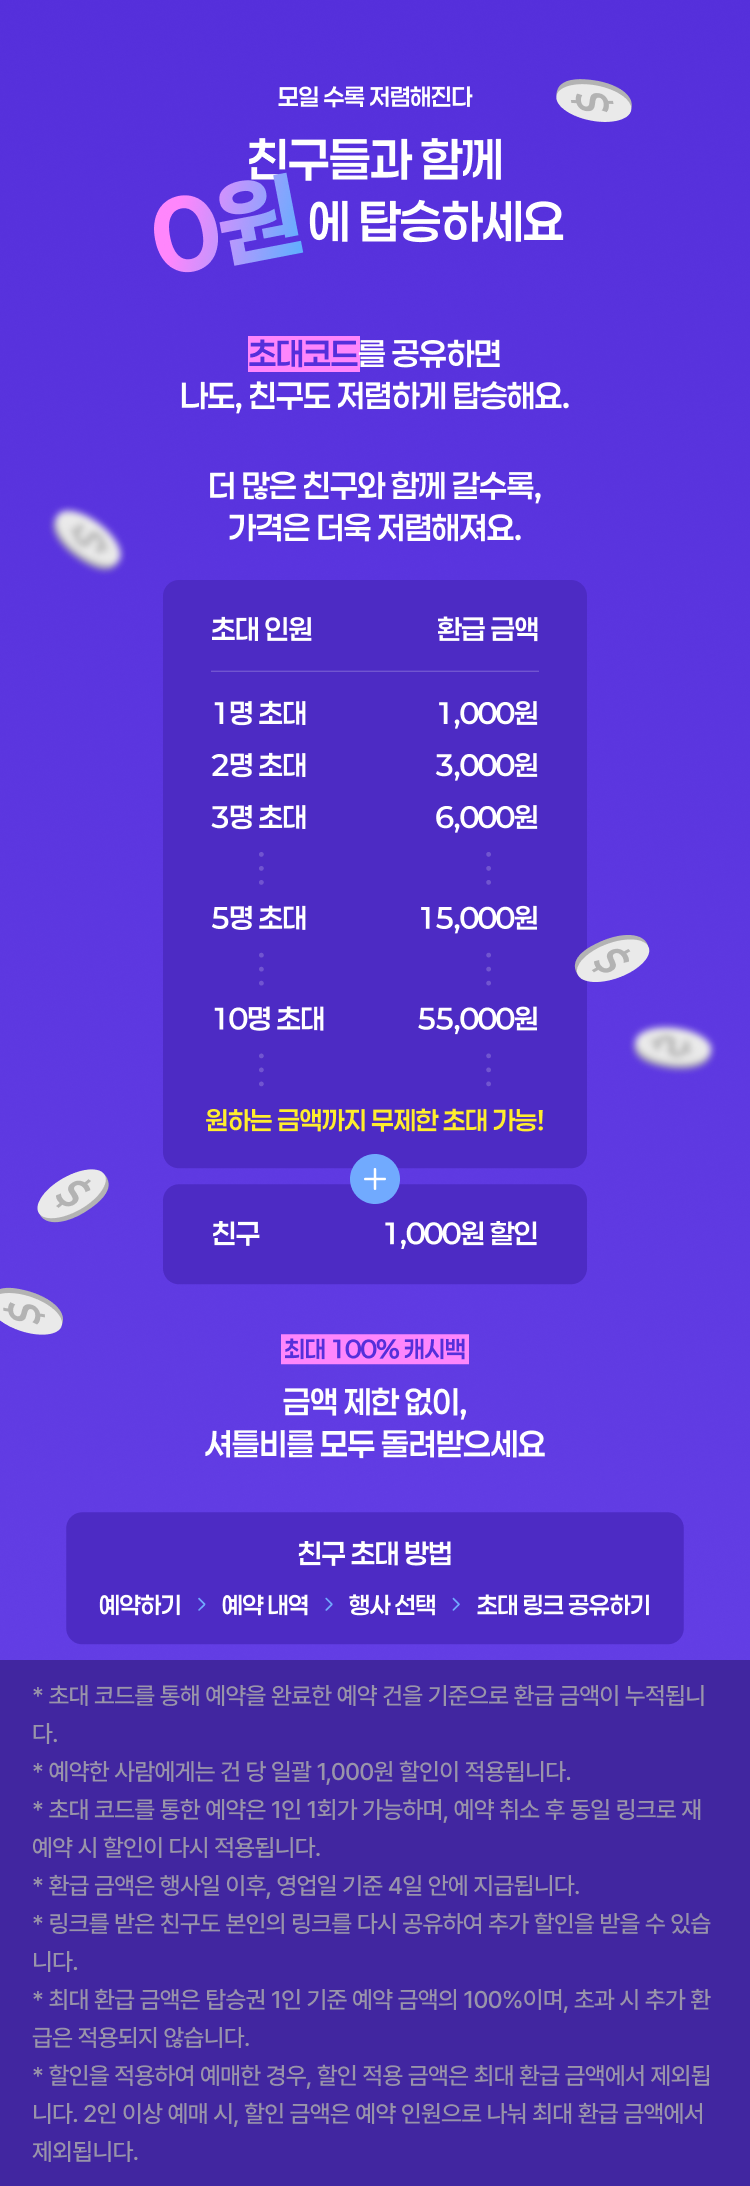
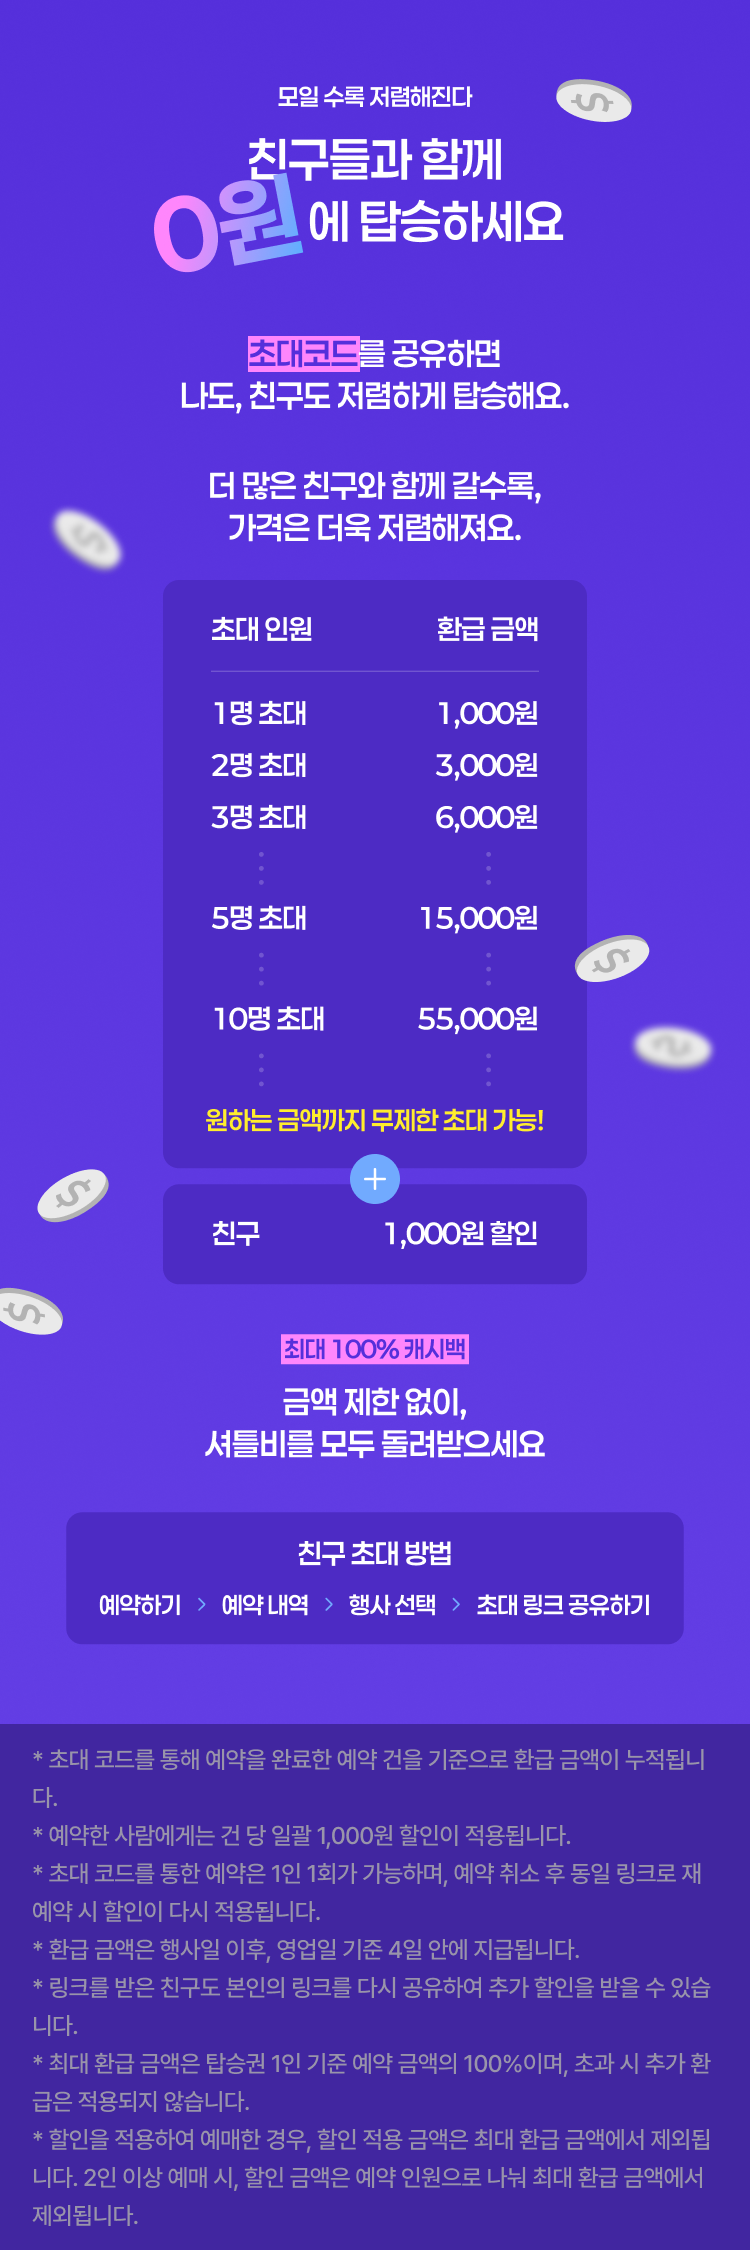
fix: ui 오류, 용어 변경, 약관 변경, 링크복사시 앱으로 열기, 중복 레퍼럴 링크 에러 처리 등

diff --git a/src/app/history/reservation/[reservationId]/components/sections/invite-payback-event-section/InvitePaybackEventSection.tsx b/src/app/history/reservation/[reservationId]/components/sections/invite-payback-event-section/InvitePaybackEventSection.tsx
@@ -57,9 +57,9 @@ const InvitePaybackEventSection = ({
       return;
     }
     const referralCode = referral.referralCode;
-    const referralLink = `${window.location.origin}/event/${eventId}?${PAYMENT_PARAMS_KEYS.referralCode}=${referralCode}`;
+    const referralLink = `${window.location.origin}/open?path=/event/${eventId}?${PAYMENT_PARAMS_KEYS.referralCode}=${referralCode}`;
     navigator.clipboard.writeText(referralLink);
-    toast.success('초대코드가 복사되었습니다.');
+    toast.success('초대 링크가 복사되었습니다.');
   };
 
   return (
@@ -82,22 +82,29 @@ const InvitePaybackEventSection = ({
           nextInviteScalingDiscount={nextInviteScalingDiscount}
           acceptedCount={inviteCount}
         />
-        <Button onClick={handleShareReferralCode}>초대코드 공유하기</Button>
+        <Button onClick={handleShareReferralCode}>초대 링크 공유하기</Button>
         <p className="text-12 font-500 leading-[160%] text-basic-grey-500">
-          * 초대 코드를 통해 예약을 완료한 예약 건을 기준으로 환급 금액이
-          누적됩니다. <br />
-          * 예약한 사람에게는 건 당 일괄 1,000원 할인이 적용됩니다. <br />
-          * 초대 코드를 통한 예약은 1인 1회가 가능하며, 예약 취소 후 동일 링크로
-          재예약 시 할인이 다시 적용됩니다. <br />
-          * 환급 금액은 행사일 이후, 영업일 기준 4일 안에 지급됩니다. <br />
+          * 초대 링크를 통해 예약을 완료한 예약 건을 기준으로 환급 금액이
+          누적됩니다.
+          <br />
+          * 예약한 사람에게는 건 당 일괄 1,000원 할인이 적용됩니다.
+          <br />
+          * 초대 링크를 통한 예약은 1인 1회만 가능하며, 예약 취소 후 동일 링크로
+          재예약 시에도 할인이 적용됩니다.
+          <br />
+          * 환급 금액은 행사일 이후, 영업일 기준 4일 이내에 지급됩니다.
+          <br />
           * 링크를 받은 친구도 본인의 링크를 다시 공유하여 추가 할인을 받을 수
-          있습니다. <br />
-          * 초대 링크를 통한 결제 시, 친구 전용 링크 안내를 확인해 주세요. 전용
-          링크 표시가 없는 경우, 할인이 적용되지 않습니다. <br />
+          있습니다.
+          <br />
+          * 초대 링크를 통한 결제 시, 친구 전용 링크 안내가 표시되는지 확인해
+          주세요. 표시가 없는 경우 할인이 적용되지 않습니다.
+          <br />
           * 최대 환급 금액은 탑승권 1인 기준 예약 금액의 100%이며, 초과 시 추가
-          환급은 적용되지 않습니다. <br />* 할인을 적용하여 예매한 경우, 할인
-          적용 금액은 최대 환급 금액에서 제외됩니다. 2인 이상 예매 시, 할인
-          금액은 예약 인원으로 나눠 최대 환급 금액에서 제외됩니다.
+          환급은 적용되지 않습니다.
+          <br />* 할인(쿠폰, 얼리버드 등)을 적용하여 예매한 경우, 할인 적용
+          금액은 최대 환급 금액에서 제외됩니다. 2인 이상 예매 시 할인 금액은
+          예약 인원으로 나누어 최대 환급 금액에서 제외됩니다.
         </p>
       </section>
     </WrapperWithDivider>

diff --git a/src/app/history/reservation/[reservationId]/components/sections/price-section/components/RegularPriceContent.tsx b/src/app/history/reservation/[reservationId]/components/sections/price-section/components/RegularPriceContent.tsx
@@ -2,19 +2,13 @@ import { PaymentsViewEntity } from '@/types/payment.type';
 import ArrowDownwardTipRightIcon from '../icons/arrow-downward-tip-right.svg';
 import { dateString } from '@/utils/dateString.util';
 import RefundRequestList from './RefundRequestList';
-import { ReferralsViewEntity } from '@/types/referral.type';
 
 interface Props {
   payment: PaymentsViewEntity;
   passengerCount: number;
-  targetReferral: ReferralsViewEntity | null;
 }
 
-const RegularPriceContent = ({
-  payment,
-  passengerCount,
-  targetReferral,
-}: Props) => {
+const RegularPriceContent = ({ payment, passengerCount }: Props) => {
   const paymentAmount = payment.paymentAmount;
   const regularPrice = payment.principalAmount / passengerCount;
   const totalEarlybirdDiscountAmount = payment.earlybirdDiscountAmount;
@@ -28,6 +22,9 @@ const RegularPriceContent = ({
     showWeekday: false,
     showTime: true,
   });
+
+  const hasReferralDiscount = !!payment.referralId;
+  const referralDiscountAmount = payment.referralDiscountAmount;
 
   return (
     <div className="flex flex-col gap-8">
@@ -74,14 +71,14 @@ const RegularPriceContent = ({
           </span>
         </li>
       )}
-      {targetReferral && (
+      {hasReferralDiscount && (
         <li className="flex h-[22px] w-full items-center justify-between">
           <span className="flex items-center gap-4 text-14 font-400 text-basic-grey-500">
             <ArrowDownwardTipRightIcon />
             초대 코드 할인
           </span>
           <span className="text-14 font-400 text-basic-grey-500">
-            -{targetReferral.discountAmount.toLocaleString()}원
+            -{referralDiscountAmount.toLocaleString()}원
           </span>
         </li>
       )}

diff --git a/src/app/event/[eventId]/dailyevent/[dailyEventId]/route/[shuttleRouteId]/payment/request/[reservationId]/page.tsx b/src/app/event/[eventId]/dailyevent/[dailyEventId]/route/[shuttleRouteId]/payment/request/[reservationId]/page.tsx
@@ -76,9 +76,9 @@ const PaymentsCompletedPage = ({
   });
 
   const handleShareReferralCode = () => {
-    const referralCodeUrl = `${window.location.origin}/event/${eventId}?${PAYMENT_PARAMS_KEYS.referralCode}=${referralCode}`;
+    const referralCodeUrl = `${window.location.origin}/open?path=/event/${eventId}?${PAYMENT_PARAMS_KEYS.referralCode}=${referralCode}`;
     navigator.clipboard.writeText(referralCodeUrl);
-    toast.success('초대코드가 복사되었습니다.');
+    toast.success('초대링크가 복사되었습니다.');
   };
 
   return (
@@ -99,12 +99,11 @@ const PaymentsCompletedPage = ({
                   💵 페이백 이벤트 진행 중 💵
                 </h2>
                 <p className="text-12 font-500 leading-[160%] text-basic-grey-700">
-                  지금 바로 링크를 공유하고, 결제 금액을 돌려받으세요! <br />더
-                  많은 친구에게 공유할 수록 할인 금액이 커져요.
+                  지금 바로 링크를 공유하고, 결제 금액을 돌려받으세요!
                 </p>
               </section>
               <Button onClick={handleShareReferralCode}>
-                초대코드 공유하기
+                초대 링크 공유하기
               </Button>
             </>
           )}

diff --git a/src/app/history/reservation/[reservationId]/components/sections/price-section/PriceSection.tsx b/src/app/history/reservation/[reservationId]/components/sections/price-section/PriceSection.tsx
@@ -2,14 +2,12 @@ import { PaymentsViewEntity } from '@/types/payment.type';
 import RegularPriceContent from './components/RegularPriceContent';
 import RefundPriceContent from './components/RefundPriceContent';
 import WrapperWithDivider from '../../WrapperWithDivider';
-import { ReferralsViewEntity } from '@/types/referral.type';
 
 interface Props {
   payment: PaymentsViewEntity;
   passengerCount: number;
   isReservationCanceled: boolean;
   isTransferredReservation: boolean;
-  targetReferral: ReferralsViewEntity | null;
 }
 
 const PriceSection = ({
@@ -17,7 +15,6 @@ const PriceSection = ({
   passengerCount,
   isReservationCanceled,
   isTransferredReservation,
-  targetReferral,
 }: Props) => {
   if (isTransferredReservation && !isReservationCanceled) {
     return null;
@@ -35,7 +32,6 @@ const PriceSection = ({
           <RegularPriceContent
             payment={payment}
             passengerCount={passengerCount}
-            targetReferral={targetReferral}
           />
         )}
       </section>

diff --git a/src/types/payment.type.ts b/src/types/payment.type.ts
@@ -36,8 +36,10 @@ export const PaymentsViewEntitySchema = z
     discountAmount: z.number(), // 총 할인 금액
     couponDiscountAmount: z.number(), // 쿠폰 할인 금액
     earlybirdDiscountAmount: z.number(), // 얼리버드 할인 금액
+    referralDiscountAmount: z.number(), // 레퍼럴 할인 금액
     refundableAmount: z.number(), // 환불 가능 금액
     issuedCouponId: z.string().nullable(), // 발행된 쿠폰 ID
+    referralId: z.string().nullable(), // 레퍼럴 ID
     reservationId: z.string(),
     createdAt: z.string(),
     updatedAt: z.string(),

diff --git a/src/app/event/[eventId]/dailyevent/[dailyEventId]/route/[shuttleRouteId]/payment/components/Content.tsx b/src/app/event/[eventId]/dailyevent/[dailyEventId]/route/[shuttleRouteId]/payment/components/Content.tsx
@@ -197,6 +197,14 @@ const Content = ({
         toast.error('예약이 마감되었어요.');
         return;
       }
+      // ReferralCode 중복사용 케이스 대응
+      if (
+        error.statusCode === 400 &&
+        error.message.includes('이미 사용한 리퍼럴입니다.')
+      ) {
+        toast.error('이미 할인 받은 초대 링크입니다.');
+        return;
+      }
       toast.error('결제에 실패했어요. 잠시 후 다시 시도해주세요.');
     }
   };

diff --git a/src/app/event/[eventId]/dailyevent/[dailyEventId]/route/[shuttleRouteId]/payment/components/sections/PriceSection.tsx b/src/app/event/[eventId]/dailyevent/[dailyEventId]/route/[shuttleRouteId]/payment/components/sections/PriceSection.tsx
@@ -63,7 +63,7 @@ const PriceSection = ({
         )}
         {referralDiscountAmount > 0 && (
           <li className="flex h-[22px] w-full items-center justify-between">
-            <span className="text-14 font-600">초대코드 할인</span>
+            <span className="text-14 font-600">초대 링크 할인</span>
             <span className="text-14 font-600">
               -{referralDiscountAmount.toLocaleString()}원
             </span>

diff --git a/src/app/history/reservation/[reservationId]/components/Content.tsx b/src/app/history/reservation/[reservationId]/components/Content.tsx
@@ -112,7 +112,6 @@ const Content = ({
         passengerCount={reservation.passengerCount}
         isReservationCanceled={isReservationCanceled}
         isTransferredReservation={isTransferredReservation}
-        targetReferral={targetReferral}
       />
       <ReservationTransferSection
         isTransferredReservation={isTransferredReservation}
